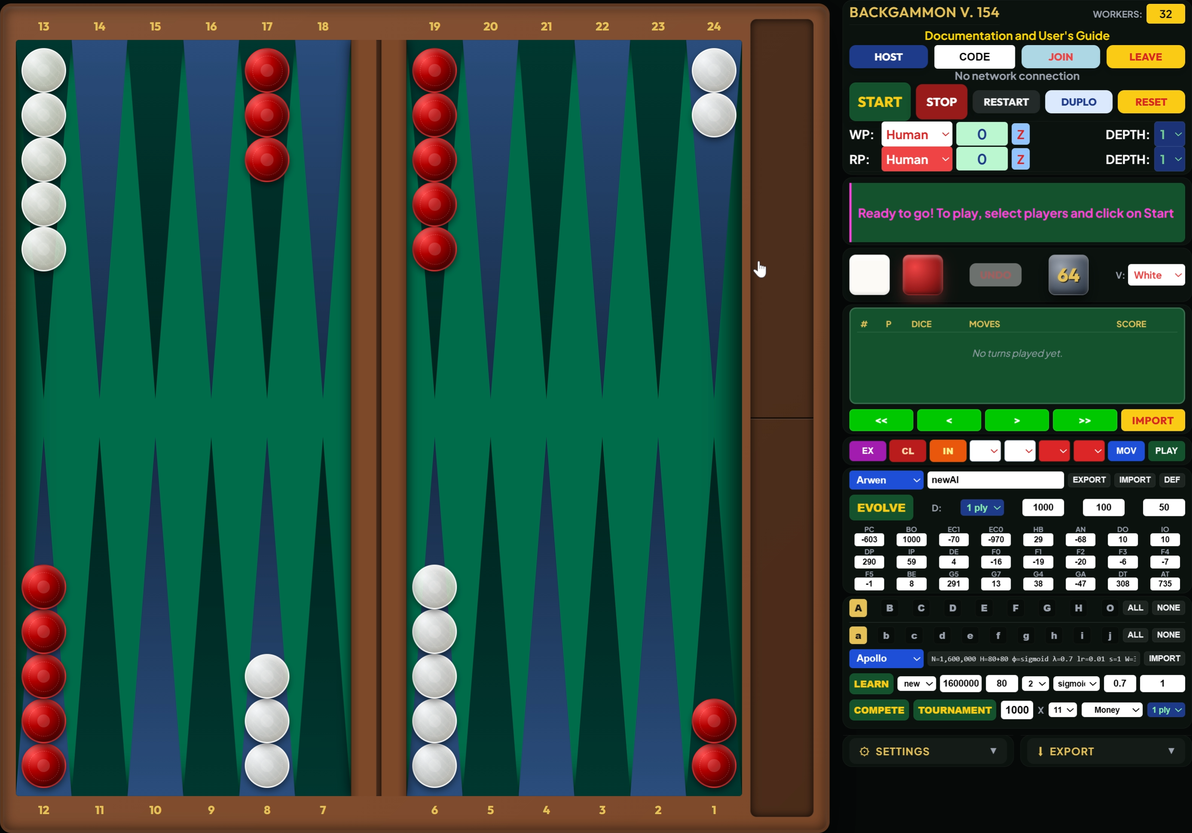
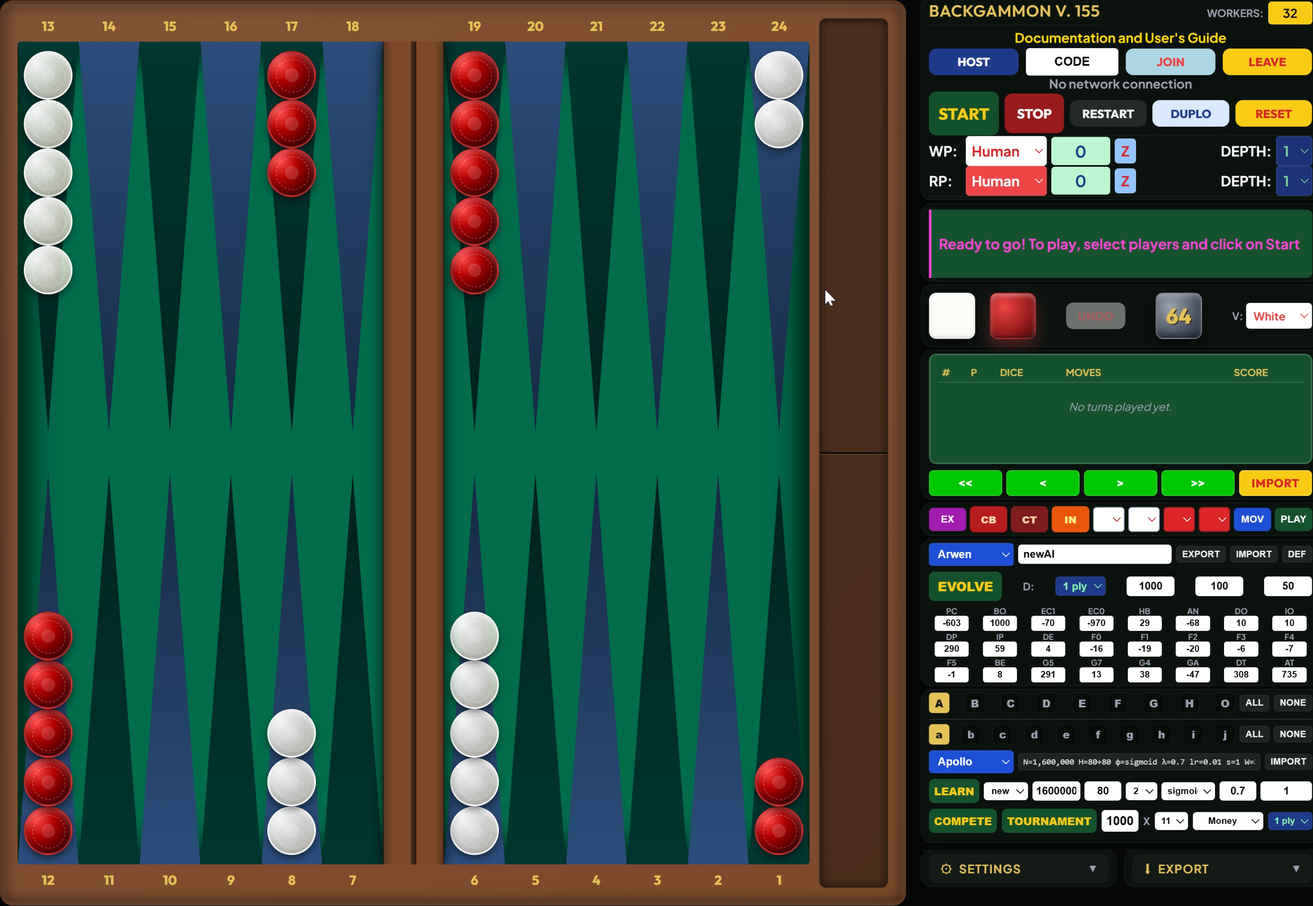
github update

diff --git a/Backgammon/manual.html b/Backgammon/manual.html
@@ -73,7 +73,7 @@
 </a>  
 
 
-<p> You can get to the game page by  clicking on the top headline of this page,  anywhere in Figure 1, or right <a href="index.html">right here</a>.   You'll see a game board and a column of controls, as shown in the Figure.   Each control has a tooltip popup that you'll see if you hover over the control.    The second line of the control column is a link back to this page.  All the controls are also explained on this web page.   If you are new to Backgammon, you want to learn its rules first, but not on this site.   The clearest online introdcution I am aware of is <a href="https://www.bkgm.com/rules.html"> here</a>.
+<p> You can get to the game page by  clicking on the top headline of this page,  anywhere in Figure 1, or right <a href="index.html">right here</a>.   You'll see a game board and a column of controls, as shown in the Figure.   Each control has a tooltip popup that you'll see if you hover over the control.    The second line of the control column is a link back to this page.  All the controls are also explained on this web page.   If you are new to Backgammon, you want to learn its rules first, but not on this site.   The clearest online introduction I am aware of is <a href="https://www.bkgm.com/rules.html"> here</a>.
 If this is the first time you see this website, you may want to browse the information on this page before proceeding to <a href="index.html">the game itself</a>.
       
 
@@ -181,26 +181,26 @@ Figure 2 shows an image of the control column.  Each row of that column is expla
   <div class="cc-canvas">
     <img src="ControlColumnFig.png" alt="The control column, with clickable numbered rows">
     <a class="cc-circle cc-hotspot" style="top:1.75%  " href="#CC1"  title="Row 1: Title bar &amp; Workers field">1</a>
-    <a class="cc-circle cc-hotspot" style="top:4.58%  " href="#CC2"  title="Row 2: Documentation link">2</a>
-    <a class="cc-circle cc-hotspot" style="top:7.28%  " href="#CC3"  title="Row 3: HOST / CODE / JOIN / LEAVE">3</a>
-    <a class="cc-circle cc-hotspot" style="top:9.83%  " href="#CC4"  title="Row 4: Network status line">4</a>
-    <a class="cc-circle cc-hotspot" style="top:13.16% " href="#CC5"  title="Row 5: START / STOP / RESTART / DUPLO / RESET">5</a>
-    <a class="cc-circle cc-hotspot" style="top:17.42% " href="#CC6"  title="Row 6: White player (WP) setup">6</a>
-    <a class="cc-circle cc-hotspot" style="top:20.71% " href="#CC7"  title="Row 7: Red player (RP) setup">7</a>
-    <a class="cc-circle cc-hotspot" style="top:27.78% " href="#CC8"  title="Row 8: Message / instruction box">8</a>
-    <a class="cc-circle cc-hotspot" style="top:35.93% " href="#CC9"  title="Row 9: Dice, UNDO, doubling cube, VIEW">9</a>
-    <a class="cc-circle cc-hotspot" style="top:46.54% " href="#CC10" title="Row 10: Move-history table">10</a>
-    <a class="cc-circle cc-hotspot" style="top:54.93% " href="#CC11" title="Row 11: Time-travel navigation">11</a>
-    <a class="cc-circle cc-hotspot" style="top:59.03% " href="#CC12" title="Row 12: Examine row (EX/CL/IN/MOV/PLAY)">12</a>
-    <a class="cc-circle cc-hotspot" style="top:62.88% " href="#CC13" title="Row 13: Brain selector, name, EXPORT/IMPORT/DEF">13</a>
-    <a class="cc-circle cc-hotspot" style="top:66.45% " href="#CC14" title="Row 14: EVOLVE controls">14</a>
-    <a class="cc-circle cc-hotspot" style="top:72.92% " href="#CC15" title="Row 15: AI parameter grid">15</a>
-    <a class="cc-circle cc-hotspot" style="top:79.32% " href="#CC16" title="Row 16: Participant toggles (A-O / ALL / NONE)">16</a>
-    <a class="cc-circle cc-hotspot" style="top:82.82% " href="#CC17" title="Row 17: Net participant toggles (a-i / ALL / NONE)">17</a>
-    <a class="cc-circle cc-hotspot" style="top:85.97% " href="#CC18" title="Row 18: Net selector &amp; IMPORT">18</a>
-    <a class="cc-circle cc-hotspot" style="top:89.19% " href="#CC19" title="Row 19: LEARN &mdash; train a net">19</a>
-    <a class="cc-circle cc-hotspot" style="top:92.55% " href="#CC20" title="Row 20: COMPETE / TOURNAMENT">20</a>
-    <a class="cc-circle cc-hotspot" style="top:97.90% " href="#CC21" title="Row 21: SETTINGS / EXPORT panels">21</a>
+    <a class="cc-circle cc-hotspot" style="top:4.85%  " href="#CC2"  title="Row 2: Documentation link">2</a>
+    <a class="cc-circle cc-hotspot" style="top:7.41%  " href="#CC3"  title="Row 3: HOST / CODE / JOIN / LEAVE">3</a>
+    <a class="cc-circle cc-hotspot" style="top:10.04% " href="#CC4"  title="Row 4: Network status line">4</a>
+    <a class="cc-circle cc-hotspot" style="top:13.21% " href="#CC5"  title="Row 5: START / STOP / RESTART / DUPLO / RESET">5</a>
+    <a class="cc-circle cc-hotspot" style="top:17.45% " href="#CC6"  title="Row 6: White player (WP) setup">6</a>
+    <a class="cc-circle cc-hotspot" style="top:20.75% " href="#CC7"  title="Row 7: Red player (RP) setup">7</a>
+    <a class="cc-circle cc-hotspot" style="top:27.83% " href="#CC8"  title="Row 8: Message / instruction box">8</a>
+    <a class="cc-circle cc-hotspot" style="top:35.85% " href="#CC9"  title="Row 9: Dice, UNDO, doubling cube, VIEW">9</a>
+    <a class="cc-circle cc-hotspot" style="top:46.29% " href="#CC10" title="Row 10: Move-history table">10</a>
+    <a class="cc-circle cc-hotspot" style="top:54.58% " href="#CC11" title="Row 11: Time-travel navigation">11</a>
+    <a class="cc-circle cc-hotspot" style="top:58.69% " href="#CC12" title="Row 12: Examine row (EX/CB/CT/IN/MOV/PLAY)">12</a>
+    <a class="cc-circle cc-hotspot" style="top:62.60% " href="#CC13" title="Row 13: Brain selector, name, EXPORT/IMPORT/DEF">13</a>
+    <a class="cc-circle cc-hotspot" style="top:66.17% " href="#CC14" title="Row 14: EVOLVE controls">14</a>
+    <a class="cc-circle cc-hotspot" style="top:72.78% " href="#CC15" title="Row 15: AI parameter grid">15</a>
+    <a class="cc-circle cc-hotspot" style="top:79.25% " href="#CC16" title="Row 16: Participant toggles (A-O / ALL / NONE)">16</a>
+    <a class="cc-circle cc-hotspot" style="top:82.75% " href="#CC17" title="Row 17: Net participant toggles (a-i / ALL / NONE)">17</a>
+    <a class="cc-circle cc-hotspot" style="top:85.85% " href="#CC18" title="Row 18: Net selector &amp; IMPORT">18</a>
+    <a class="cc-circle cc-hotspot" style="top:89.15% " href="#CC19" title="Row 19: LEARN &mdash; train a net">19</a>
+    <a class="cc-circle cc-hotspot" style="top:92.45% " href="#CC20" title="Row 20: COMPETE / TOURNAMENT">20</a>
+    <a class="cc-circle cc-hotspot" style="top:97.84% " href="#CC21" title="Row 21: SETTINGS / EXPORT panels">21</a>
   </div>
   <figcaption>Fig. 2: The Control Column (click a number for details)</figcaption>
 </figure>
@@ -258,47 +258,18 @@ way it stops that instead, since there is no interactive game underneath to paus
 by then is still saved &mdash; a stopped tournament or competition writes its spreadsheet, marked with how many
 of the planned matches were actually played, and a stopped training run saves and installs its net.
 
-<p> <e>DUPLO</e> plays the game that has just ended a second time, with the luck the other way round.   This is
-<i>duplicate play</i>, borrowed from duplicate bridge, where the same deal is played at more than one table so
-that the luck of the cards cancels and only the difference in play remains.   If you have just lost a game to a
-run of doubles, DUPLO hands that run to your opponent and lets you play the game they played; whatever separates
-the two results is then play rather than dice.
+<p> <e>DUPLO</e> plays the game that has just ended a second time, with identical dice rolls, but the players switched.  So Red plays White's previous game and White plays Red's previous game.  This is similar to duplicate bridge in which the same hands are played by several partnerships.   The purpose is to reduce the influence of chance.  It can't eliminate chance completely because the effectiveness of a dice roll depends on the current position, i.e., the previous moves of both player and opponent, and those may not be the same as they were in the previous game.   By default DUPLO is used in tournaments, competitions, and learning processes.  This feature can be turned off in the settings.
 
-<p> <e>Nobody changes seats.</e>   You keep your colour, your score field and &mdash; in a networked game
-&mdash; your role as host or guest.   What changes is the dice: every roll of the first game goes to the other
-side, starting with the opening roll, so the player who opened the first game does not open the second.   The
-board is <e>mirrored</e> at the same time &mdash; every point reflected and the two colours exchanged &mdash; so
-that your side of the board is now the side your opponent played.   From the ordinary starting position the
-mirror changes nothing you can see, since that position is symmetric; from a position you set up by hand it is
-what makes the second game a genuine repeat of the first rather than merely a repeat of its dice.
 
-<p> The rolls come from the game that was just played rather than from any kind of stored seed, so once the
-second game outlasts the first &mdash; which it will if the two of you play differently &mdash; the remaining
-rolls are fresh.   Pressing <e>DUPLO</e> again returns to the original orientation with the original dice.
-There is nothing to replay until a game has been played, and in a networked game the <e>host</e> presses the
-button for both machines.   The same idea is applied wholesale to tournaments and competitions by the
-<e>DUPLO</e> setting described in row 21, which uses the equivalent arrangement for two AIs.
+
 
 
 <h2 id="CC6" class="cc-target"><a class="cc-circle cc-badge" href="#ccfig" title="Back to the figure">6</a>&nbsp;<a id="CC7" class="cc-circle cc-badge" href="#ccfig" title="Back to the figure" style="scroll-margin-top:12px">7</a>3.6 &ndash; 3.7. Player Selection</h2>
 <!-- Rows 6 & 7: WP (White player) and RP (Red player) setup — brain, score, Z reset, depth (described together) -->
-Here you can select  the white player in the first menu in that row.  The options are either <e>Human</e> (the default) or one of nine <e>AI</e> players, ranked by decreasing performance.   The cyan text field keeps track of the <e>score</e> in a multi game match.   The button labeled <e>Z</e> resets the score field to zero.   The <i>depth menu</i> lets you select the <i>search depth</i> for AI players, measured in <i>plies</i> (half moves, the action of one player).   <e>1 ply</e> is the default, and it is the depth at which every tournament on this site has been run. At  <e>0 plies</e> the AI picks the first available legal move. You can use this setting if you are looking for a crazy opponent, or for other experiments.  <e>1 ply</e> applies a <i>static evaluation</i> function to every board that can be obtained with a legal move, based on the current dice roll.  It then picks the move that yields the best scoring board.  This is very fast, for human play against an AI as well as for tournaments or evolutions. (In a tournament, the average time per game on my 32-thread desktop is about 4 ms, and on my 8-thread laptop about 18 ms.)
-<e>2 plies</e> considers all possible dice rolls and moves after the first ply, and then computes an expected score for the board after the first ply.  Each further ply multiplies the work by roughly <e>four hundred</e>, because the AI must weigh all twenty-one
-distinct rolls the opponent might get and, for each, some eighteen replies to it.
+Here you can select  the players, the white player in row 6, and the red player in row 7.
+ The options offered in the first menu in those rows are either <e>Human</e> (the default) or any one of nineteen <e>AI</e> players.   These from two groups, each of which is ranked by decreasing performance. A detailed description of how these AIs work is <a href="AIs.html">here</a>.  The cyan text field keeps track of the <e>score</e> in a multi game match.   The button labeled <e>Z</e> resets the score field to zero.   The <i>depth menu</i> lets you select the <i>search depth</i> for AI players, measured in <i>plies</i> (half moves, the action of one player).   <e>1 ply</e> is the default.  At that depth the system examines every board that can be reached with the given dice roll, and picks the move that optimizes the score.  At  <e>0 plies</e> the AI picks the first available legal move. You can use this setting if you are looking for a crazy opponent, or for other experiments.  
+<e>2 plies</e> considers all possible dice rolls and moves after the first ply, and then computes an expected score for the board after the first ply. A three ply search searches on level deeper.  
 
-<p> <e>Deeper search is worth a great deal more than it once appeared.</e>   The strongest net playing itself,
-one seat at 1 ply and the other at 2, over a thousand matches to 11, finished <e>583&ndash;417</e> for the
-deeper side &mdash; a bigger effect than any other single setting on this site except one, and you can
-reproduce it with <e>COMPETE</e> and the two depth menus.   Measured against an external reference engine, the
-error the same net gives away per decision falls by about 45% from 1 ply to 2, and by a further 20% from 2 to
-3.   An earlier version of this page said the gain was a few percentage points; that was measured over far too
-few matches and it was wrong.
-
-<p> What limits the deeper settings is time, not merit.   At <e>2 plies</e> a move takes a fraction of a
-second with the workers of row 1 behind it, which is comfortable for a game against a person and affordable
-for a tournament.   At <e>3 plies</e> a single move takes tens of seconds: a fine setting for a considered game
-or for examining one position, and quite impractical for a tournament, where one match would take hours.
-There is <a href="AIs.html#sec-cost">more on what a ply costs</a> on the AI page.
 
 <p> There is a separate page giving <a href="AIs.html">more information </a>about the AI players and algorithms.
 
@@ -313,6 +284,8 @@ There is <a href="AIs.html#sec-cost">more on what a ply costs</a> on the AI page
 <!-- Row 9: Dice, UNDO, doubling cube, VIEW selector -->
 
 <p> You use the controls in this row during a game against a human or an AI.  Specifically, there are:
+
+
 
   <OL>
     <LI><e>The Playing Dice.</e>  Initially one of the dice is white, and the other is red, as in Figure 1.  Clicking on them will constitute the first roll.   The player whose die shows the higher number makes the first move.  Subsequently the first move alternates between White and Red.  Otherwise,  the color of the dice indicates the player whose turn it is.  As the game proceeds the color of the dice will change and match the player who is making the current turn. When the dice are blank the corresponding player can roll the dice by clicking on them.
@@ -358,9 +331,9 @@ as a percentage, and a parameter AI a score in its own band of roughly &plusmn;1
 <p> The yellow <e>IMPORT</e> button at the right of the row reads a <i>game record</i> back into the move list.   A game record is the text file that <e>MOVE LIST</e> in row 21 downloads, and that <e>AUTO RECORD</e> writes by itself at the end of every game.   Loading one refills the move list with that game, so you can step through it, click any row to return to that position, and examine it just as if you had played it.   You can also simply drag the file onto the control column.   The record is checked against itself as it is read: every position is recomputed and compared with the pip counts stored in the file, and if anything disagrees the file is refused and the status field says at which move.   Loading a game replaces whatever is on the board, and it also restores the two players, so a game between two AIs is scored with the same AIs it was played with.
 
 <h2 id="CC12" class="cc-target"><a class="cc-circle cc-badge" href="#ccfig" title="Back to the figure">12</a>3.12. Examination and Analysis</h2>
-<!-- Row 12: Examine row (EX / CL / IN / dice menus / MOV / PLAY) -->
+<!-- Row 12: Examine row (EX / CB / CT / IN / dice menus / MOV / PLAY) -->
 
-<p> The controls in this row let you set up a position and analyze it,  or start a game from it.  You can move checkers on the board , including the bar and the collection tray, by dragging or clicking on start and finish, without restriction.  The first three buttons set up an initial configuration.  Specifically, <e>EX</e> selects the position currently on the board, e.g., the position in an ongoing game.  <e>CL</e> starts a position with all checkers on the bar.  <e>IN</e> loads the regular starting position.  The red and white <e>menus</e> serve as <e>dice</e>.  You can select a roll using either the red dice or the white dice, but not both sets.   If you start an analysis or a game, and no dice have been set, the system will apply a random roll.  <e>MOV</e> lists the legal moves in the move list field, best first, with two numbers against each: the probability that <e>White</e> wins the game if that move is made, and the <e>equity</e> the move is ranked by.   The probability is a percentage in White's view, so that a number below 50 means Red is ahead and is printed in red, while 50 or more is White's and printed in white; it is the same number, and the same convention, as the score column of row 10.   The equity is the expected number of points won, counting gammons and backgammons, and it is what decides the order &mdash; a play that wins less often but gammons more can be worth more points, which is why both numbers are shown rather than one.   The moves are ranked by the brain this row analyses with.   By default that is the neural net selected in row 18 &mdash; normally the strongest net of the distribution &mdash; and the moves are then scored in equity.   Turning the <e>NET ANALYSIS</e> setting of row 21 <e>OFF</e> hands the analysis back to the AI selected in row 13, and that AI's parameters are then read <e>live</e> from row 15, so you can change a weight and press MOV again to see the effect at once.   A net has no such parameters, which is why the two go together.  <e>PLAY</e> applies the top-ranked move &mdash; ranked by the same brain as <e>MOV</e> &mdash; to the board and hands the roll to the other side, leaving you in examination mode.   The <e>START</e> button in Row 5 starts a game from the currently set up position, and the <e>RESTART</e> button in the same row restarts a game from the same position as the most recent game.  You can navigate in a set up game exactly as you would in a regular game.
+<p> The controls in this row let you set up a position and analyze it,  or start a game from it.  You can move checkers on the board , including the bar and the collection tray, by dragging or clicking on start and finish, without restriction.  The first four buttons set up an initial configuration.  Specifically, <e>EX</e> selects the position currently on the board, e.g., the position in an ongoing game.  <e>CB</e> starts a position with all checkers on the bar, and <e>CT</e> one with all checkers in the collection trays.   <e>CT</e> is the quickest way to build a bear-off position, because you drag out the two or three checkers you want instead of putting the other twenty-eight back.   With every checker in the trays both sides hold fifteen off, so <e>START</e> declines to launch a game until some are back on the board.  <e>IN</e> loads the regular starting position.  The red and white <e>menus</e> serve as <e>dice</e>.  You can select a roll using either the red dice or the white dice, but not both sets.   If you start an analysis or a game, and no dice have been set, the system will apply a random roll.  <e>MOV</e> lists the legal moves in the move list field, best first, with two numbers against each: the probability that <e>White</e> wins the game if that move is made, and the <e>equity</e> the move is ranked by.   The probability is a percentage in White's view, so that a number below 50 means Red is ahead and is printed in red, while 50 or more is White's and printed in white; it is the same number, and the same convention, as the score column of row 10.   The equity is the expected number of points won, counting gammons and backgammons, and it is what decides the order &mdash; a play that wins less often but gammons more can be worth more points, which is why both numbers are shown rather than one.   The moves are ranked by the brain this row analyses with.   By default that is the neural net selected in row 18 &mdash; normally the strongest net of the distribution &mdash; and the moves are then scored in equity.   Turning the <e>NET ANALYSIS</e> setting of row 21 <e>OFF</e> hands the analysis back to the AI selected in row 13, and that AI's parameters are then read <e>live</e> from row 15, so you can change a weight and press MOV again to see the effect at once.   A net has no such parameters, which is why the two go together.  <e>PLAY</e> applies the top-ranked move &mdash; ranked by the same brain as <e>MOV</e> &mdash; to the board and hands the roll to the other side, leaving you in examination mode.   The <e>START</e> button in Row 5 starts a game from the currently set up position, and the <e>RESTART</e> button in the same row restarts a game from the same position as the most recent game.  You can navigate in a set up game exactly as you would in a regular game.
  By default, doubling is turned off in examination mode (to prevent immediate terminations in lopsided positions).
 
 

diff --git a/Backgammon/game.js b/Backgammon/game.js
@@ -242,14 +242,26 @@ class BackgammonGame {
     this.futureRollIndex = 0;
   }
 
-  // CLEAR: empty board, all 30 checkers parked on the two borne-off trays.
-  // CLEAR: board empty, all 15 of each colour sitting on its own BAR (White bar = point 25,
-  // Red bar = point 0). Trays empty. So a game can be started straight from here with every
-  // checker entering from the bar.
+  // CLEAR TO BAR (CB): board empty, all 15 of each colour sitting on its own BAR (White bar =
+  // point 25, Red bar = point 0). Trays empty. So a game can be started straight from here
+  // with every checker entering from the bar.
   setupClear() {
     this.points = Array(25).fill(null).map(() => ({ player: null, count: 0 }));
     this.bar = { 1: 15, 2: 15 };
     this.borneOff = { 1: 0, 2: 0 };
+    this._setupResetTurn();
+  }
+
+  // CLEAR TO TRAYS (CT): board and bars empty, all 30 checkers in their collection trays. The
+  // quick start for a bear-off study: drag out the two or three checkers the position needs,
+  // rather than putting twenty-eight back. NB this leaves BOTH sides showing fifteen off, i.e.
+  // both have "won". That is safe only because setup editing never reaches endTurn(), the sole
+  // caller of checkWinner(), and updateUI() returns early while setupMode is on. START refuses
+  // to launch while either side still has all fifteen off - see startGameFromCurrentBoard.
+  setupTrays() {
+    this.points = Array(25).fill(null).map(() => ({ player: null, count: 0 }));
+    this.bar = { 1: 0, 2: 0 };
+    this.borneOff = { 1: 15, 2: 15 };
     this._setupResetTurn();
   }
 
@@ -716,15 +728,23 @@ rollDice(d1 = null, d2 = null) {
     // more dice. (Trial-based, because the memoised search records only one move order
     // per resulting position and would hide equivalent first moves.)
     const set = new Set();
+    const endsGame = new Set();
     for (const src of sources) {
       for (const d of this.getRawDestinations(src)) {
+        const key = `${src}|${d.to}|${d.dieUsed}`;
         const clone = this._cloneForSearch();
         clone.makeMove(src, d.to, false);
+        if (clone.borneOff[player] === 15) { endsGame.add(key); set.add(key); continue; }
         const sub = clone._maxUsageSequences(player, clone.movesLeft);
         const afterMax = clone.movesLeft.length - (sub.length ? sub[0].diceLeftCount : clone.movesLeft.length);
-        if (1 + afterMax === maxDice) set.add(`${src}|${d.to}|${d.dieUsed}`);
+        if (1 + afterMax === maxDice) set.add(key);
       }
     }
+
+    // Bearing off the fifteenth checker ends the game, so that move IS the turn.
+    // Anything else on offer now is the same last checker stepping down first — a
+    // longer spelling of the same journey — so only the direct bear-off is offered.
+    if (endsGame.size) return endsGame;
 
     // "If only one die can be played, it must be the higher one."
     if (maxDice === 1 && this.movesLeft.length === 2 && this.movesLeft[0] !== this.movesLeft[1]) {
@@ -757,6 +777,12 @@ rollDice(d1 = null, d2 = null) {
     if (!this.hasRolled || total === 0) return null;
     const states = this._maxUsageSequences(this.currentPlayer, this.movesLeft);
     if (states.length === 0) return null;
+    // The game ends the moment the fifteenth checker comes off, so the direct bear-off
+    // is the only move offered and the rest of the roll is never played. Without this
+    // the generic wording below would tell the winner they must play both dice.
+    if (states.some((s) => s.moves.length === 1 && s.borneOff[this.currentPlayer] === 15)) {
+      return "Bearing off your last checker wins the game — the rest of the roll is not played.";
+    }
     const minLeft = Math.min(...states.map((s) => s.diceLeftCount));
     const used = total - minLeft;
     if (used === 0) return null;
@@ -1522,12 +1548,21 @@ rollDice(d1 = null, d2 = null) {
       }
 
       if (!branchExpanded) {
+        // Bearing off the fifteenth checker ENDS THE GAME, so no dice remain to be
+        // played and the turn is complete however many were used. Counting the unused
+        // die here lets the maximum-usage rule outlive the game: the last checker on
+        // the 2-point rolling 6-1 was forced to shuffle 2/1 before bearing off with
+        // the 6, and 6-1 with the last checker on the 6-point was forced to play
+        // 6/5 5/off instead of 6/off. The two spellings are one checker making the
+        // same journey to the same final position, so no result can change by this;
+        // gnubg 1.07.001 likewise offers only the direct bear-off.
+        const gameOver = currentBorneOff[player] === 15;
         finalStates.push({
           points: currentPoints,
           bar: currentBar,
           borneOff: currentBorneOff,
           moves: moveSequence,
-          diceLeftCount: currentDice.length
+          diceLeftCount: gameOver ? 0 : currentDice.length
         });
       }
     };
@@ -1538,6 +1573,22 @@ rollDice(d1 = null, d2 = null) {
     
     let minDiceLeft = Math.min(...finalStates.map(s => s.diceLeftCount));
     let validCompleteStates = finalStates.filter(s => s.diceLeftCount === minDiceLeft);
+
+    // Two kept sequences reaching the SAME final position are one move differently
+    // spelt: a checker playing 2/1 and then 1/off has made the journey 2/off. Keep the
+    // shortest spelling. This can only fire on a turn that ENDS THE GAME, since any
+    // other short sequence has already been dropped by the maximum-usage rule above,
+    // so what it removes is the pointless step-down before a final bear-off. It
+    // compares only sequences reaching the SAME position, so two genuinely different
+    // first moves that converge (24/18 18/15 against 24/21 21/15) are the same length
+    // and both survive, which _legalFirstSteps depends on.
+    const shortestFor = new Map();
+    for (const s of validCompleteStates) {
+      const k = serializeState(s.points, s.bar, s.borneOff);
+      if (!shortestFor.has(k) || s.moves.length < shortestFor.get(k)) shortestFor.set(k, s.moves.length);
+    }
+    validCompleteStates = validCompleteStates.filter(
+      (s) => s.moves.length === shortestFor.get(serializeState(s.points, s.bar, s.borneOff)));
 
     if (diceRolls.length === 2 && minDiceLeft === 1 && diceRolls[0] !== diceRolls[1]) {
       const largerDie = Math.max(...diceRolls);

diff --git a/Backgammon/index.html b/Backgammon/index.html
@@ -152,7 +152,7 @@
   <!-- Combined Config & Network Station -->
   <div class="glass-card config-station">
     <div style="display: flex; flex-direction: row; align-items: center; justify-content: space-between; gap: 0.5rem;">
-      <h2 id="app-version" style="margin: 0;"><a href="manual.html" target="_blank" title="Open the documentation and user's guide" style="color: inherit; text-decoration: none; cursor: pointer;">Backgammon v. 155</a></h2>
+      <h2 id="app-version" style="margin: 0;"><a href="manual.html" target="_blank" title="Open the documentation and user's guide" style="color: inherit; text-decoration: none; cursor: pointer;">Backgammon v. 156</a></h2>
       <div style="display: flex; align-items: center; gap: 0.3rem; flex-shrink: 0;">
         <label for="num-workers" style="font-size: 0.7rem; color: var(--text-secondary); font-weight: 700; text-transform: uppercase;">Workers:</label>
         <input type="number" id="num-workers" min="1" value="1" title="Number of background Web Workers for the parallel search. Defaults to your CPU core count. Requires running over http:// (not file://)." style="width: 3rem; text-align: center; background: #facc15; color: #111; border: 1px solid rgba(255,255,255,0.1); border-radius: 4px; padding: 0.2rem 0.1rem; font-weight: bold; font-family: inherit;">
@@ -295,7 +295,8 @@
   <div class="glass-card setup-station" style="padding: 0.6rem 0.8rem;">
     <div style="display: flex; align-items: center; gap: 4px; flex-wrap: nowrap; width: 100%;">
       <button id="btn-ex" class="setup-btn" title="Examine: enter setup keeping the current position on the board" style="padding: 0.4rem 0.3rem; background: #a21caf; color: #ffffff; border: none; border-radius: 5px; font-size: 0.68rem; font-weight: bold; text-transform: uppercase; white-space: nowrap; cursor: pointer;">Ex</button>
-      <button id="btn-clear" class="setup-btn" title="Stop play and clear the board (all checkers to the trays)" style="padding: 0.4rem 0.3rem; background: #b91c1c; color: #fed7aa; border: none; border-radius: 5px; font-size: 0.68rem; font-weight: 800; text-transform: uppercase; white-space: nowrap; cursor: pointer;">Cl</button>
+      <button id="btn-clear" class="setup-btn" title="Stop play and clear the board, putting all 30 checkers on the bar. A game can be started straight from there, with every checker entering from the bar." style="padding: 0.4rem 0.3rem; background: #b91c1c; color: #fed7aa; border: none; border-radius: 5px; font-size: 0.68rem; font-weight: 800; text-transform: uppercase; white-space: nowrap; cursor: pointer;">Cb</button>
+      <button id="btn-trays" class="setup-btn" title="Stop play and clear the board, putting all 30 checkers in the collection trays. The quick start for a bear-off position: drag out only the checkers you want. Both sides then hold fifteen checkers off, so START will not launch a game until some are back on the board." style="padding: 0.4rem 0.3rem; background: #7f1d1d; color: #fed7aa; border: none; border-radius: 5px; font-size: 0.68rem; font-weight: 800; text-transform: uppercase; white-space: nowrap; cursor: pointer;">Ct</button>
       <button id="btn-initial" class="setup-btn" title="Stop play and load the standard starting position" style="padding: 0.4rem 0.3rem; background: #ea580c; color: #fef08a; border: none; border-radius: 5px; font-size: 0.68rem; font-weight: 800; text-transform: uppercase; white-space: nowrap; cursor: pointer;">In</button>
 
       <select id="setup-r1" class="setup-die setup-die-white" title="White die (White on roll)" style="background: #ffffff; color: #dc2626; border: 1px solid #94a3b8; border-radius: 4px; font-size: 0.72rem; font-weight: bold; padding: 0.35rem 0.05rem; cursor: pointer;">
@@ -472,7 +473,7 @@
           <span class="settings-item-label">Auto Record</span>
           <span class="settings-item-badge" id="badge-autorecord">OFF</span>
         </div>
-        <div class="settings-item" id="setting-duplo" data-setting="duplo" title="Duplicate-bridge scoring for Tournament and Compete. Every match is played twice: the same dice, the seats swapped. Luck largely cancels between the two halves, so far fewer matches are needed to separate two AIs — and a brain played against itself scores an exact tie. Forces the match count to be even. Does not change how any single game is played.">
+        <div class="settings-item" id="setting-duplo" data-setting="duplo" title="Duplicate-bridge scoring for Tournament, Compete and Evolve. Every match is played twice: the same dice, the seats swapped. Luck largely cancels between the two halves, so far fewer matches are needed to separate two AIs — and a brain played against itself scores an exact tie. Forces the match count to be even. Does not change how any single game is played.">
           <span class="settings-item-label">DUPLO</span>
           <span class="settings-item-badge" id="badge-duplo">ON</span>
         </div>

diff --git a/Backgammon/ui.js b/Backgammon/ui.js
@@ -274,7 +274,7 @@ document.addEventListener('DOMContentLoaded', () => {
   let setupSel     = null;   // two-click source location ('pN'|'bar1'|'bar2'|'tray1'|'tray2')
   let setupDragLoc = null;   // drag source location
   let setupOnRoll  = null;   // side to move next (1|2|null)
-  let setupKind    = null;   // 'clear' | 'initial' | 'examine' (last entered)
+  let setupKind    = null;   // 'clear' | 'trays' | 'initial' | 'examine' (last entered)
   let setupBaseMsg = 'Examination Mode';   // idle instruction-line text while in setup
   // When a game is launched from a hand-set-up position (START/PLAY in examination mode), we
   // remember that position here so Restart restarts from IT rather than the standard opening.
@@ -6559,6 +6559,7 @@ const originalEndTurn = BackgammonGame.prototype.endTurn;
     selectedSource = null; legalDestinations = [];
     gameStarted = false;
     if (kind === 'clear') game.setupClear();
+    else if (kind === 'trays') game.setupTrays();
     else if (kind === 'initial') game.setupInitial();
     else {   // 'examine' — keep the current position; just reset dice/turn scaffolding
       setupOnRoll = game.currentPlayer || null;
@@ -6773,6 +6774,17 @@ const originalEndTurn = BackgammonGame.prototype.endTurn;
   // (updateUI → checkAndTriggerAITurn), which drives any AI seat, lets a human seat play, and
   // populates the move list (row 10) with the usual time-travel navigation and analysis.
   function startGameFromCurrentBoard() {
+    // A side holding all fifteen checkers in its tray has already won, so there is no game to
+    // start. CT reaches that board in one click, and EX on a finished game reached it before CT
+    // existed: START launched anyway, and the first endTurn() then declared that side the
+    // winner, tallied the scoreboard and fired Auto Record off a position nobody had played.
+    if (game.borneOff[1] === 15 || game.borneOff[2] === 15) {
+      const both = game.borneOff[1] === 15 && game.borneOff[2] === 15;
+      const who = both ? 'Both sides have' : (game.borneOff[1] === 15 ? 'White has' : 'Red has');
+      gameMessageEl.textContent = `${who} all fifteen checkers off — there is no game to start. `
+        + 'Drag some back onto the board first.';
+      return;
+    }
     const allBlank = setupAllBlank();
     setupMode = false;
     clearSetupHighlight();
@@ -6860,6 +6872,7 @@ const originalEndTurn = BackgammonGame.prototype.endTurn;
 
   document.getElementById('btn-ex')?.addEventListener('click', () => enterSetup('examine'));
   document.getElementById('btn-clear')?.addEventListener('click', () => enterSetup('clear'));
+  document.getElementById('btn-trays')?.addEventListener('click', () => enterSetup('trays'));
   document.getElementById('btn-initial')?.addEventListener('click', () => enterSetup('initial'));
   document.getElementById('btn-mov')?.addEventListener('click', doMOV);
   document.getElementById('btn-play')?.addEventListener('click', doPLAY);
